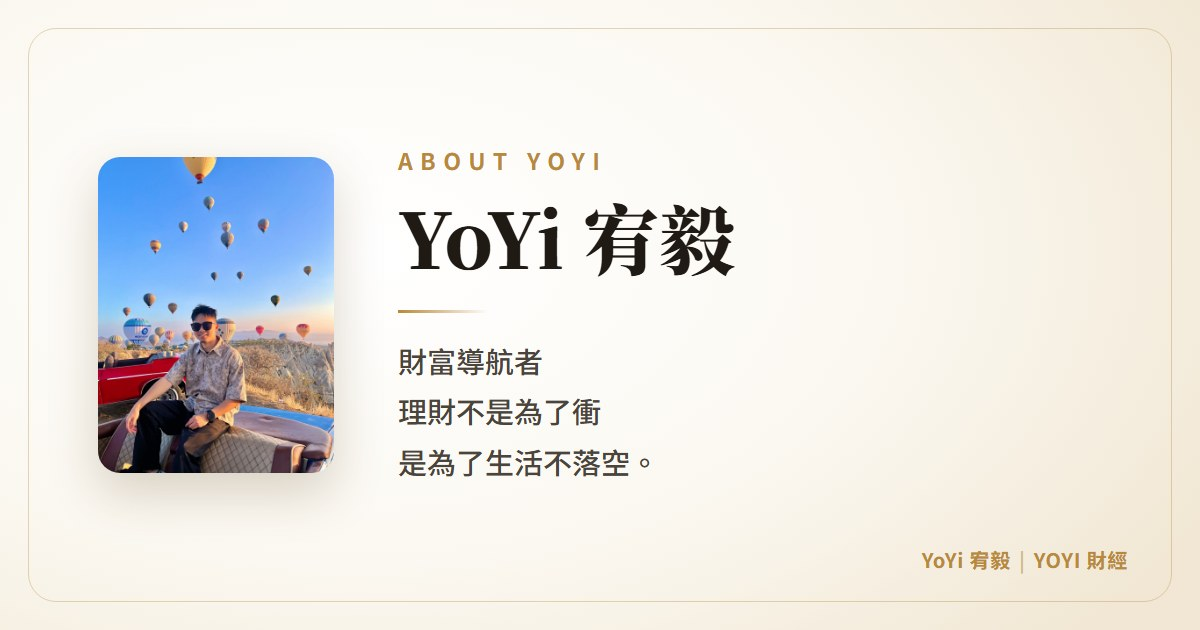
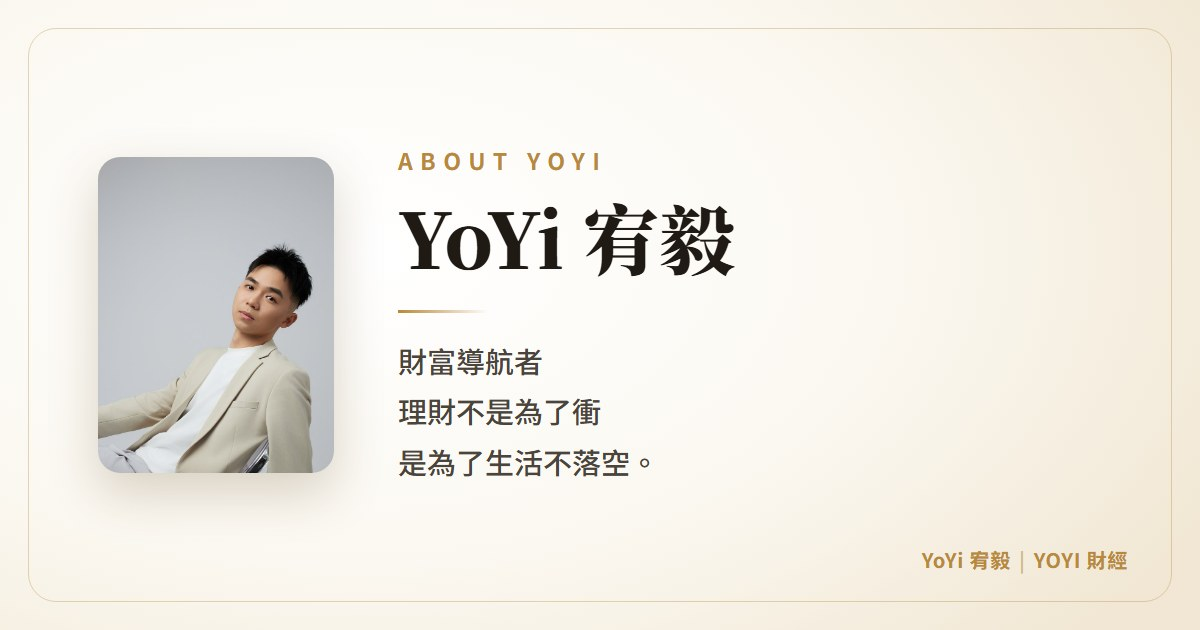
about: new portrait hero and share image

Changed region(s): [[0.0617, 0.2413, 0.2775, 0.754]]

diff --git a/about.html b/about.html
@@ -7,7 +7,7 @@
 <meta name="description" content="YoYi 宥毅｜財富導航者。6 年金融業經驗、5,000 萬資產管理實績。理財不是為了衝，是為了生活不落空。">
 <meta property="og:title" content="認識 YoYi｜YOYI 財經">
 <meta property="og:description" content="理財不是為了衝，是為了生活不落空。">
-<meta property="og:image" content="https://yoyifinance.github.io/images/og/og-about.jpg?v=20261104">
+<meta property="og:image" content="https://yoyifinance.github.io/images/og/og-about.jpg?v=20261111">
 <meta property="og:image:width" content="1200">
 <meta property="og:image:height" content="630">
 <meta property="og:url" content="https://yoyifinance.github.io/about.html">
@@ -94,7 +94,7 @@ footer{margin:60px 0 0;padding:28px 20px 40px;text-align:center;font-size:12.5px
 /* 主視覺：文字和按鈕疊在照片上（2026-11-04）；照片調暗調暖＋下半部深色漸層，讓字清楚 */
 .hero{position:relative;max-width:680px;margin:14px 16px 0;border-radius:24px;overflow:hidden;background:#18140E;box-shadow:0 24px 60px rgba(90,65,20,.22)}
 @media(min-width:712px){.hero{margin:14px auto 0}}
-.hero img{display:block;width:100%;aspect-ratio:9/10;object-fit:cover;object-position:50% 80%;filter:saturate(.8) contrast(1.06) brightness(.9) sepia(.12)}
+.hero img{display:block;width:100%;aspect-ratio:5/6;object-fit:cover;object-position:62% 88%;filter:contrast(1.03)}
 .hero::after{content:'';position:absolute;inset:0;pointer-events:none;
   background:linear-gradient(180deg,rgba(24,20,14,.3) 0%,rgba(24,20,14,0) 16%,rgba(24,20,14,0) 38%,rgba(24,20,14,.5) 50%,rgba(24,20,14,.9) 61%,#18140E 68%)}
 .hero .ov{position:relative;z-index:2;margin-top:-34%;padding:0 20px 26px;text-align:center;color:#fff}
@@ -166,7 +166,7 @@ footer{margin:60px 0 0;padding:28px 20px 40px;text-align:center;font-size:12.5px
 <header class="top"><a href="./"><img src="logo_h_gold.svg" alt="YOYI 財經"></a><a class="home" href="./"><svg viewBox="0 0 24 24" fill="none" stroke="currentColor" stroke-width="2" stroke-linecap="round" stroke-linejoin="round" aria-hidden="true"><path d="M3 11l9-7 9 7"/><path d="M5 10v10h14V10"/><path d="M10 20v-6h4v6"/></svg>回到首頁</a></header>
 
 <div class="hero">
-  <img src="images/yoyi_turkey.jpg" alt="YoYi 宥毅">
+  <img src="images/yoyi_portrait.jpg" alt="YoYi 宥毅">
   <div class="ov">
     <div class="kicker">ABOUT YOYI</div>
     <h1>YoYi 宥毅</h1>
